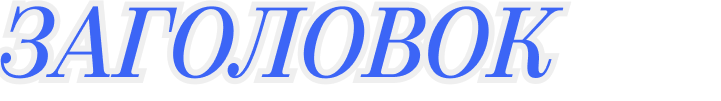
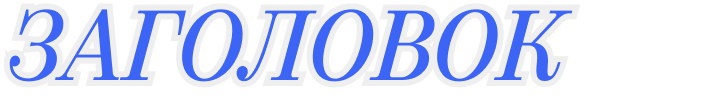
update size

diff --git a/index.html b/index.html
@@ -95,10 +95,10 @@
         </div>
       </div>
       <div class="brandnead">
-        <img class="stgimg" src="images/logosceme.png" alt="" />
+        <img class="stgimg sizeimg" src="images/logosceme.png" alt="" />
       </div>
       <div class="brandnead">
-        <img class="stgimg" src="images/variants.png" alt="" />
+        <img class="stgimg sizeimg" src="images/variants.png" alt="" />
         <div class="textcenter">
           <p class="textblue">
             Лого может располагаться на черном, синем и сером фоне, а также на
@@ -107,7 +107,7 @@
         </div>
       </div>
       <div class="brandnead">
-        <img class="stgimg" src="images/logoall.png" alt="" />
+        <img class="stgimg sizeimg" src="images/logoall.png" alt="" />
       </div>
       <div class="brandnead">
         <img class="stgimg" src="images/nelsa.png" alt="" />
@@ -328,7 +328,11 @@
         </div>
       </div>
       <div class="brandnead">
-        <img class="stgimg imgmargin" src="images/picture1.png" alt="" />
+        <img
+          class="stgimg imgmargin sizeimg"
+          src="images/picture1.png"
+          alt=""
+        />
       </div>
       <div class="textcenter">
         <p class="textblue">
@@ -337,7 +341,7 @@
         </p>
       </div>
       <div class="brandnead">
-        <img class="stgimg" src="images/picture2.png" alt="" />
+        <img class="stgimg sizeimg" src="images/picture2.png" alt="" />
       </div>
     </section>
     <section class="backblue">

diff --git a/stylesheets/content.css b/stylesheets/content.css
@@ -62,7 +62,8 @@ h2{
 
 }
 .bcimg{
-    width: 85.078vw
+    width: 85.078vw;
+    margin-top: -1vw;
 }
 .stg{
 
@@ -71,14 +72,21 @@ h2{
 }
 .stgimg{
   margin-top: 2vw;
+
 }
 .head{
 
+}
+.sizeimg{
+    width: 85.078vw;
 }
 .brand{
   width: 85.078vw;
 margin-left: 14.922vw;
 
+}
+.brandnead{
+    width: 85.078vw;
 }
 .textwhite{
   color: #EFEFEF;
